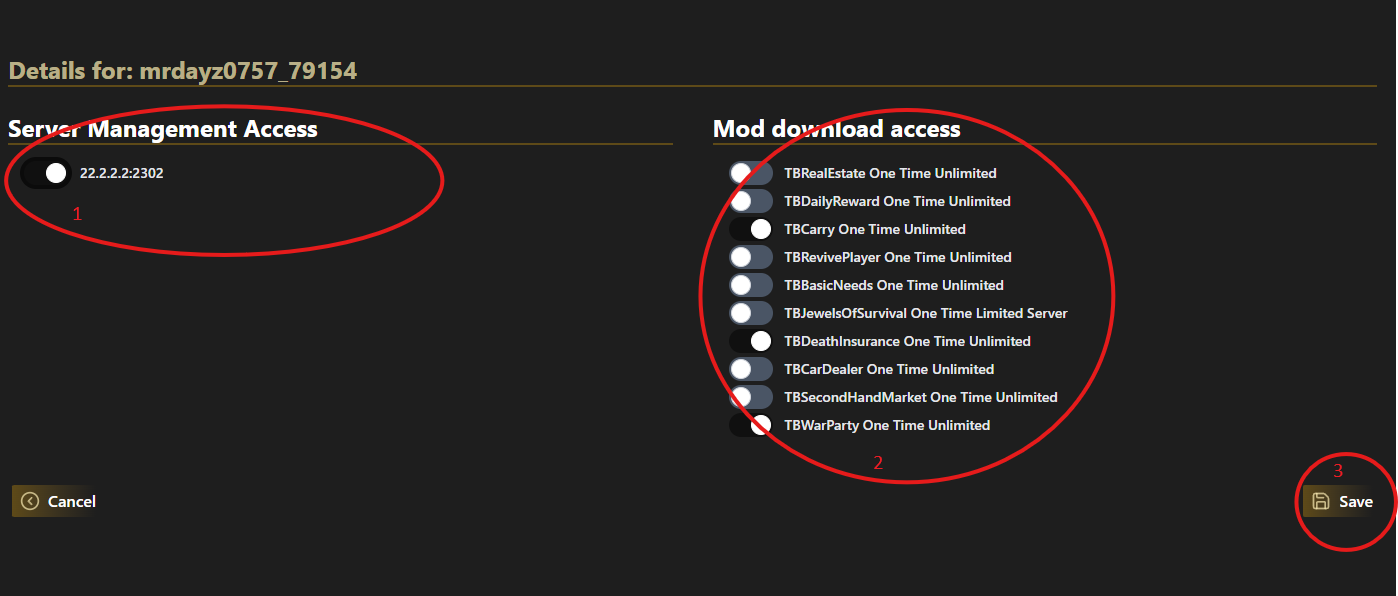
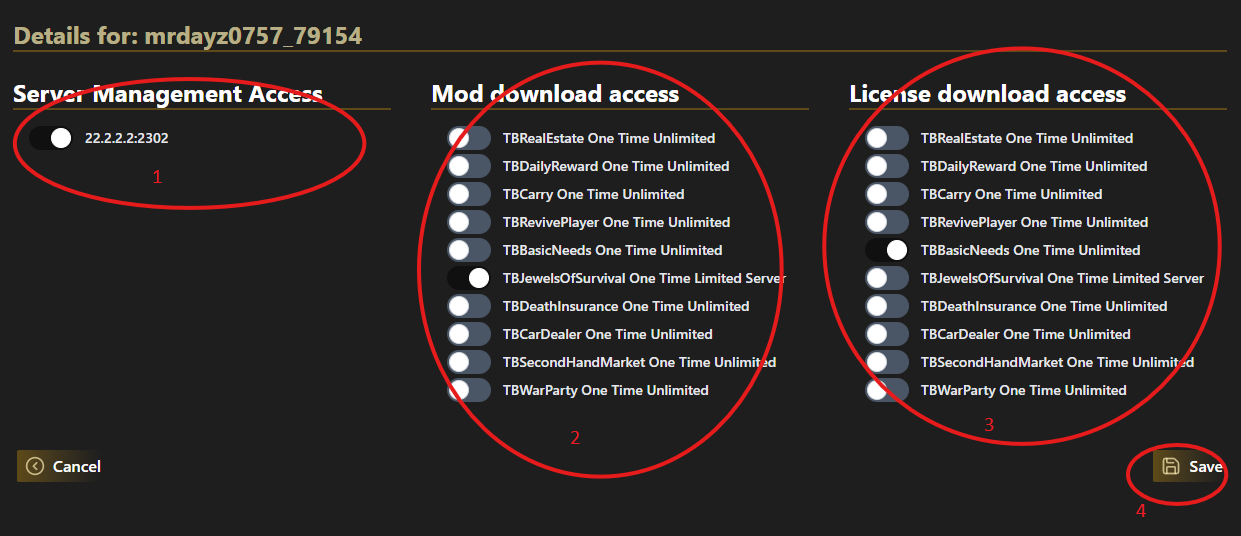
update

diff --git a/The Mod Base/ShareAccess.md b/The Mod Base/ShareAccess.md
@@ -25,7 +25,8 @@
 9.
    1. enable servers you want to share. The invited user will be able to manage this server
    2. enable the mods you want to share. The invited user will be able to download the mod
-   3. click on `save` button
+   3. enable the license keys you want to share. The invited user will be able to download the license key
+   4. click on `save` button
 ![share_access_configure_access_2.png](images/share_access_configure_access_2.png)
 ## Second Part for invited user
 10. after your access rights where configured in step 9 you can open the details of your invitations
